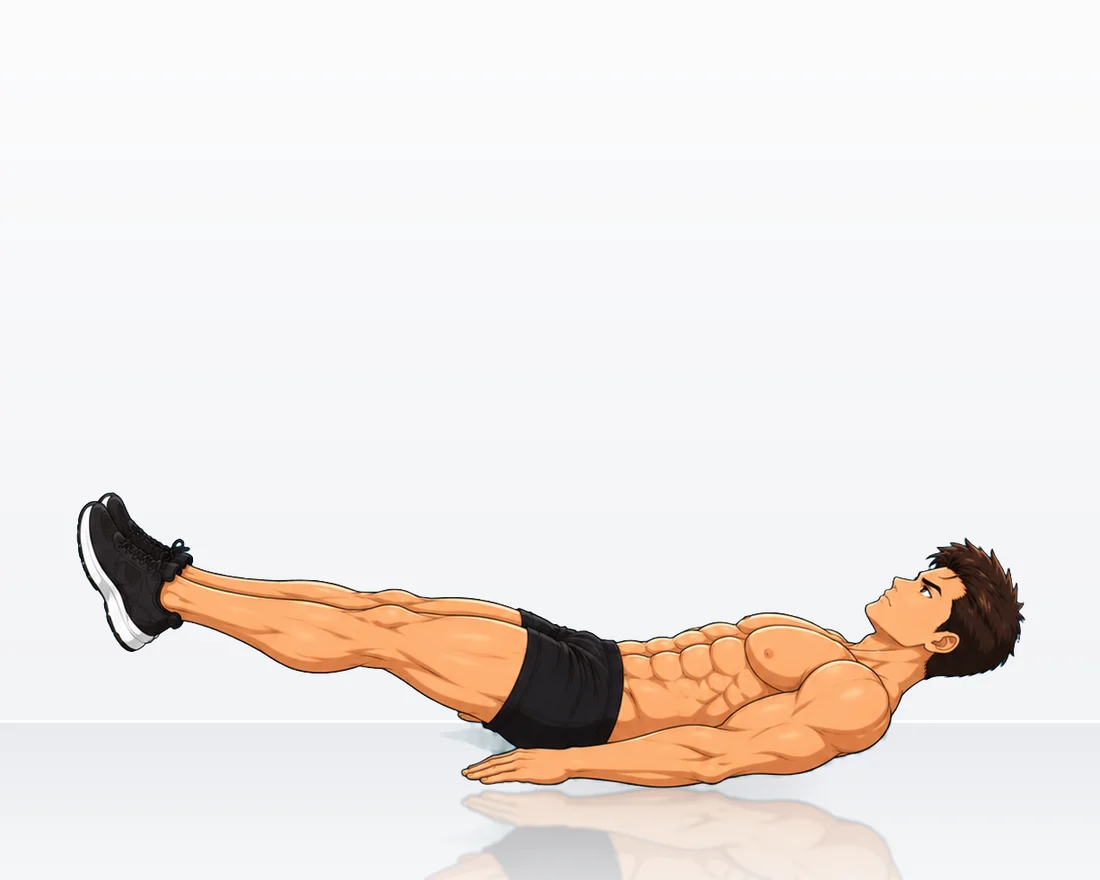
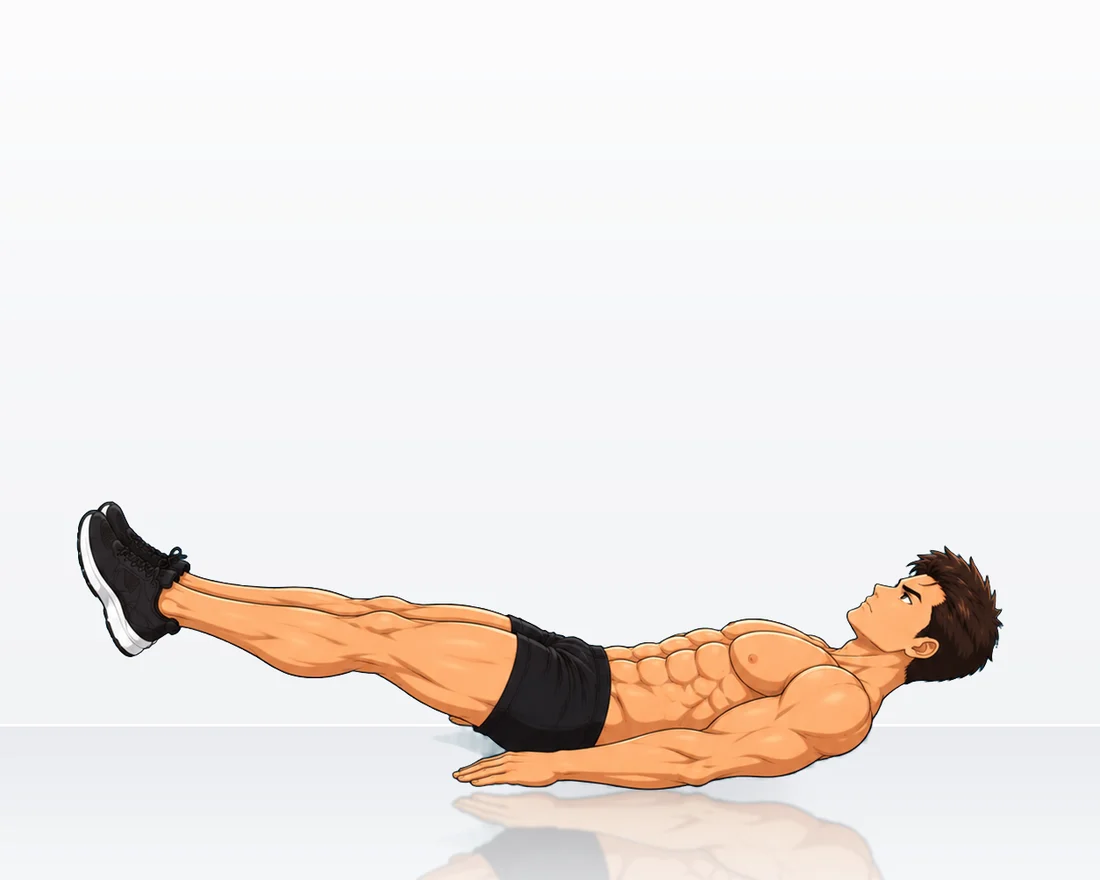
Revert composited animation frames (Version 1.1)
Rebuild every animation frame directly from its source picture again;
the "still parts from frame 1" compositing broke some images. It stays
in tools/make_frames.py but is switched off (COMPOSITE = False).

diff --git a/data/exercises.js b/data/exercises.js
@@ -39,7 +39,7 @@ window.EXERCISES = [
       "Take about 2–3 seconds to lower each rep.",
       "Breathe out as you curl up and in as you lower."
     ],
-    "animation": { "type": "frames", "src": "assets/exercises/seated-biceps-curl/{n}.webp?v=7", "frames": 2, "durations": [1000, 1000] }
+    "animation": { "type": "frames", "src": "assets/exercises/seated-biceps-curl/{n}.webp?v=8", "frames": 2, "durations": [1000, 1000] }
   },
   {
     "id": "seated-shoulder-press",
@@ -67,7 +67,7 @@ window.EXERCISES = [
       "Keep your back against the bench (or upright if it has no back support), and don't arch to push the weight up.",
       "Take about 2 seconds to lower each rep."
     ],
-    "animation": { "type": "frames", "src": "assets/exercises/seated-shoulder-press/{n}.webp?v=6", "frames": 2, "durations": [1100, 1100] }
+    "animation": { "type": "frames", "src": "assets/exercises/seated-shoulder-press/{n}.webp?v=7", "frames": 2, "durations": [1100, 1100] }
   },
   {
     "id": "seated-lateral-raise",
@@ -94,7 +94,7 @@ window.EXERCISES = [
       "Don't shrug your shoulders up toward your ears.",
       "Don't swing your body to lift the dumbbells."
     ],
-    "animation": { "type": "frames", "src": "assets/exercises/seated-lateral-raise/{n}.webp?v=6", "frames": 3, "durations": [900, 500, 1000] }
+    "animation": { "type": "frames", "src": "assets/exercises/seated-lateral-raise/{n}.webp?v=7", "frames": 3, "durations": [900, 500, 1000] }
   },
   {
     "id": "flat-dumbbell-bench-press",
@@ -121,7 +121,7 @@ window.EXERCISES = [
       "Breathe out as you press and in as you lower.",
       "When you finish, bring the dumbbells to your chest and sit up with them on your thighs."
     ],
-    "animation": { "type": "frames", "src": "assets/exercises/flat-dumbbell-bench-press/{n}.webp?v=4", "frames": 2, "durations": [1100, 1100] }
+    "animation": { "type": "frames", "src": "assets/exercises/flat-dumbbell-bench-press/{n}.webp?v=5", "frames": 2, "durations": [1100, 1100] }
   },
   {
     "id": "lying-dumbbell-triceps-extension",
@@ -148,7 +148,7 @@ window.EXERCISES = [
       "Use a light dumbbell and move slowly near your head.",
       "Breathe out as you straighten your arms."
     ],
-    "animation": { "type": "frames", "src": "assets/exercises/lying-dumbbell-triceps-extension/{n}.webp?v=7", "frames": 2, "durations": [1100, 1100] }
+    "animation": { "type": "frames", "src": "assets/exercises/lying-dumbbell-triceps-extension/{n}.webp?v=8", "frames": 2, "durations": [1100, 1100] }
   },
   {
     "id": "elbow-plank",
@@ -262,7 +262,7 @@ window.EXERCISES = [
       "Lower for about 3 seconds; that slow lowering is where your abs work hardest to keep your back flat.",
       "Try 3 sets of 10–12 reps."
     ],
-    "animation": { "type": "frames", "src": "assets/exercises/lying-leg-raises/{n}.webp?v=3", "frames": 2, "durations": [1000, 1000] }
+    "animation": { "type": "frames", "src": "assets/exercises/lying-leg-raises/{n}.webp?v=4", "frames": 2, "durations": [1000, 1000] }
   },
   {
     "id": "bird-dog",
@@ -319,7 +319,7 @@ window.EXERCISES = [
       "Keep your lower back on the bench and your ribs down.",
       "Breathe in as you lower and out as you pull the weight back."
     ],
-    "animation": { "type": "frames", "src": "assets/exercises/lying-dumbbell-pullover/{n}.webp?v=7", "frames": 4, "durations": [900, 500, 1000, 500] }
+    "animation": { "type": "frames", "src": "assets/exercises/lying-dumbbell-pullover/{n}.webp?v=8", "frames": 4, "durations": [900, 500, 1000, 500] }
   },
   {
     "id": "dumbbell-fly",
@@ -346,7 +346,7 @@ window.EXERCISES = [
       "Keep the bend in your elbows the same all the way; don't turn it into a press.",
       "Don't lower the dumbbells past the point of a comfortable stretch."
     ],
-    "animation": { "type": "frames", "src": "assets/exercises/dumbbell-fly/{n}.webp?v=3", "frames": 2, "durations": [1100, 1100] }
+    "animation": { "type": "frames", "src": "assets/exercises/dumbbell-fly/{n}.webp?v=4", "frames": 2, "durations": [1100, 1100] }
   },
   {
     "id": "close-grip-incline-chest-press",
@@ -373,7 +373,7 @@ window.EXERCISES = [
       "Keep your back and head on the bench.",
       "Breathe out as you press and in as you lower."
     ],
-    "animation": { "type": "frames", "src": "assets/exercises/close-grip-incline-chest-press/{n}.webp?v=4", "frames": 2, "durations": [1100, 1100] }
+    "animation": { "type": "frames", "src": "assets/exercises/close-grip-incline-chest-press/{n}.webp?v=5", "frames": 2, "durations": [1100, 1100] }
   },
   {
     "id": "dumbbell-row",
@@ -401,7 +401,7 @@ window.EXERCISES = [
       "Don't twist your body to lift the weight; keep your shoulders level.",
       "Keep your neck in line with your back by looking at the floor."
     ],
-    "animation": { "type": "frames", "src": "assets/exercises/dumbbell-row/{n}.webp?v=4", "frames": 2, "durations": [1000, 1100] }
+    "animation": { "type": "frames", "src": "assets/exercises/dumbbell-row/{n}.webp?v=5", "frames": 2, "durations": [1000, 1100] }
   },
   {
     "id": "chest-supported-rear-delt-fly",
@@ -428,7 +428,7 @@ window.EXERCISES = [
       "Keep your chest on the bench and your neck relaxed.",
       "Don't shrug your shoulders toward your ears as you lift."
     ],
-    "animation": { "type": "frames", "src": "assets/exercises/chest-supported-rear-delt-fly/{n}.webp?v=3", "frames": 2, "durations": [1000, 1100] }
+    "animation": { "type": "frames", "src": "assets/exercises/chest-supported-rear-delt-fly/{n}.webp?v=4", "frames": 2, "durations": [1000, 1100] }
   },
   {
     "id": "arnold-press",
@@ -456,7 +456,7 @@ window.EXERCISES = [
       "Use lighter dumbbells than for a regular shoulder press.",
       "Keep your back against the bench; don't arch to push the weight up."
     ],
-    "animation": { "type": "frames", "src": "assets/exercises/arnold-press/{n}.webp?v=3", "frames": 2, "durations": [1000, 1100] }
+    "animation": { "type": "frames", "src": "assets/exercises/arnold-press/{n}.webp?v=4", "frames": 2, "durations": [1000, 1100] }
   },
   {
     "id": "seated-overhead-triceps-extension",
@@ -483,7 +483,7 @@ window.EXERCISES = [
       "Brace your core so your lower back doesn't arch.",
       "Move slowly near your head and use a weight you can control."
     ],
-    "animation": { "type": "frames", "src": "assets/exercises/seated-overhead-triceps-extension/{n}.webp?v=3", "frames": 2, "durations": [1000, 1100] }
+    "animation": { "type": "frames", "src": "assets/exercises/seated-overhead-triceps-extension/{n}.webp?v=4", "frames": 2, "durations": [1000, 1100] }
   },
   {
     "id": "bench-crunch",

diff --git a/js/app.js b/js/app.js
@@ -2,7 +2,7 @@
 (function () {
   'use strict';
 
-  const APP_VERSION = '1.0';   // shown in the footer; bump with each release (1.1, 1.2, ...)
+  const APP_VERSION = '1.1';   // shown in the footer; bump with each release (1.1, 1.2, ...)
   const CREATOR = 'Assaf Hovevei Sion';
   const EXERCISES = Array.isArray(window.EXERCISES) ? window.EXERCISES : [];
   const CATEGORIES = ['Home Basics', 'Core Muscles', 'Extra Home Strength'];

diff --git a/index.html b/index.html
@@ -57,7 +57,7 @@
     <symbol id="i-right" viewBox="0 0 24 24"><path d="M9.5 5.5 16 12l-6.5 6.5"/></symbol>
   </svg>
 
-  <script src="data/exercises.js?v=40"></script>
-  <script src="js/app.js?v=17"></script>
+  <script src="data/exercises.js?v=41"></script>
+  <script src="js/app.js?v=18"></script>
 </body>
 </html>

diff --git a/tools/make_frames.py b/tools/make_frames.py
@@ -247,7 +247,7 @@ def reflection(fig, foot):
 
 # ---------- 3b. still parts come from frame 1 ----------
 
-COMPOSITE = True         # build later frames from frame 1 + only the region that really moves
+COMPOSITE = False        # off: the user found the composited frames broke some images (2026-10-22)
 DILATE = 0.02            # how far the moving region extends around the moving limb (fraction of image size)
 NUDGE = False            # set per exercise by main() from NUDGE_FOR
 NUDGE_FOR = {'seated-shoulder-press'}   # re-align the moving part on the still upper body (fixes a doubled head)

diff --git a/CLAUDE.md b/CLAUDE.md
@@ -21,7 +21,7 @@ It is a static site: no build step, no framework and no dependencies (Google Fon
 - `js/app.js` contains the hash router, landing and detail renderers, the `createAnimation` component and the wake lock.
 - `tools/make_frames.py` builds every exercise image. Run `python3 tools/make_frames.py` (or name exercise ids, or `stills`) after source art changes. Its `EXERCISES` table lists each exercise's source frames in play order, and `STILLS` (now empty) can map single still images. Source art must be a figure on a plain blue background (gym-scene versions don't work; for the shoulder press use the blue `SPU1.jpg`/`SPU3.jpg`, not the gym PNGs). The script keys out the blue against each picture's own border colour (Guy1's background is darker), then aligns frames on the bottom 28% of the figure (bench legs, shins, shoes), so the man never changes size or position. It renders every frame onto the same "glossy white" backdrop the user chose (option B): white wall, pale floor, contact shadow, faded floor reflection and a highlight line. Figures cut off by the bottom of their picture (Guy1) get a plain white gradient with no floor. Wide poses (plank, pullover) get extra wall above them so the image is at least 0.8 as tall as it is wide (`MIN_ASPECT`); otherwise they fill the whole stage and look much bigger than the other exercises. Output is `assets/exercises/<id>/<n>.webp` and `assets/guy/guyN.webp`, max 1100px. Frames are shown with `object-fit: contain` and are never cropped. Bump the `?v=N` on an animation `src` in `exercises.js` whenever its images are regenerated.
 - Current frames: biceps curl SLC1→SLC3 (SLC2 dropped by the user), shoulder press SPU1.jpg→SPU3.jpg, lateral raise SS1→SS2→SS3, flat bench press LPU1→LPU2, Lying Dumbbell Triceps Extension BML1→BML2 (Home Basics), elbow plank EP1, bicycle ab crunches BAC1, mountain climbers MC1, bench crunch cwlob1 (moved to Extra Home Strength at the user's request; from "crunch while the legs are on the bench"; the bench is cut off at the right edge in the art) and bird dog BD1 (single stills in Core Muscles, shown with `"type": "image"`). Lying leg raises (LLR1→LLR2, Core Muscles) is in `ALIGN_RIGHT`: its legs move and LLR2 is drawn about 1.25× bigger, so it is aligned on the torso, head and arms (the right part of the figure) with a wide scale search anchored on the head. The BML pictures were briefly named "Lying Dumbbell Pullover". When the user added real pullover art, the BML exercise was renamed back to the user's original name, "Lying Dumbbell Triceps Extension" (id `lying-dumbbell-triceps-extension`). The pullover (`lying-dumbbell-pullover`, Extra Home Strength) uses LDP1→LDP2→LDP3→LDP2, so the loop goes deep stretch → arms back → over the chest → back without a jump. Dumbbell Fly (`dumbbell-fly`, Extra Home Strength) uses DP1→DP2 from the "Dumbbell Pullover" folder. The user asked for "Dumbbell Pullover", but the art shows a fly, so they agreed to that name. It aligns on a bigger area (`BAND_FOR`, 0.6) because the legs are drawn at an angle. Close Grip Incline Chest Press (`close-grip-incline-chest-press`, Extra Home Strength) uses CGICP1→CGICP2. Its art, like the DR and IP pictures, has a thin light (white or pale-blue) rounded frame drawn near the edges. `drop_border_frames` finds straight light lines running along the edges. If there are none, the picture is untouched. If there are, it clears light pixels only between that edge and the line, which also removes the rounded corners. An earlier version that cleared whole corner squares cut off white shoe soles, so don't widen it. Dumbbell Row (`dumbbell-row`, Extra Home Strength) uses DR1→DR2 from the "Dumbo Row" folder (named Dumbbell Row; the art shows a one-arm row) and has the same drawn frame. Chest-Supported Rear Delt Fly (`chest-supported-rear-delt-fly`, Extra Home Strength) uses IP1→IP2 from the "incline pronated chest down rear belt fly" folder; the user asked for a better name than the folder's. It is in `ALIGN_METAL`: it is aligned on the bench's grey metal frame only (`metal_mask`), because in IP1 the hanging dumbbells sit low next to the bench feet and throw off the usual bottom-band fit. `drop_specks` removes tiny isolated bits (under 600px) left by decorations in the art; stray specks used to stretch some pictures' framing. `FLOOR_FOR` raises the wall/floor line for perspective drawings: the bench crunch uses 0.30 so the man lies on the floor instead of floating above it. Arnold Press (`arnold-press`, Extra Home Strength) uses AP1→AP2 from "Arnold Presses". The yellow rotation arrows drawn in the art are kept on purpose. Seated Overhead Triceps Extension (`seated-overhead-triceps-extension`, Extra Home Strength) uses she1→she2 from "Sitting overhead extension". It is aligned on the legs and shoes; the artist drew the bench slightly shifted in she1, so the bench back ghosts a little during the blend.
-- **Steady animations (`composite` in the script)**: the artist redraws the bench and body slightly differently in every picture, so even aligned frames made still parts jitter. Every later frame is now frame 1 with only the moving region pasted in. `motion_mask` finds that region: alpha differences, plus strong colour changes (over 140, e.g. a dumbbell drawn over the bench leg). It opens the mask to drop thin redraw slivers, regrows the big blobs, widens them by `DILATE` and fills holes; `FEATHER` keeps the edge sharp to avoid ghosting. Compositing happens before cropping so nothing gets cut off. `NUDGE_FOR` (only `seated-shoulder-press`) also re-aligns the pasted part on the still upper body, which fixed a doubled head there. It smeared other exercises, so leave it off unless an overlay check shows it helps. To check: overlay all frames of each animation; anything doubled that shouldn't move is a bug.
+- **Steady animations (`composite`, currently OFF via `COMPOSITE = False`)**: the user said it ruined some images and asked to revert it on 2026-10-22. Don't turn it back on without asking. How it worked: the artist redraws the bench and body slightly differently in every picture, so even aligned frames made still parts jitter. Every later frame is now frame 1 with only the moving region pasted in. `motion_mask` finds that region: alpha differences, plus strong colour changes (over 140, e.g. a dumbbell drawn over the bench leg). It opens the mask to drop thin redraw slivers, regrows the big blobs, widens them by `DILATE` and fills holes; `FEATHER` keeps the edge sharp to avoid ghosting. Compositing happens before cropping so nothing gets cut off. `NUDGE_FOR` (only `seated-shoulder-press`) also re-aligns the pasted part on the still upper body, which fixed a doubled head there. It smeared other exercises, so leave it off unless an overlay check shows it helps. To check: overlay all frames of each animation; anything doubled that shouldn't move is a bug.
 - `assets/guy/guy-general.webp` is the transparent emblem and is not processed by the script. The "To be deleted" placeholder category and its Guy1–7 stills were removed; `STILLS` in the script is now empty.
 - `icons/` and `manifest.json` provide the Home Screen icon and name.
 - `Images/` holds the full-size source art, and nothing in it is served directly.
